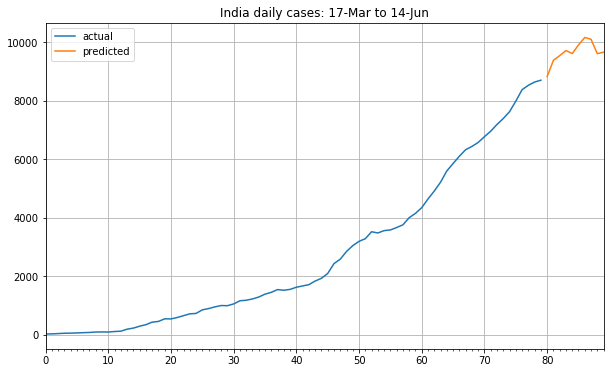
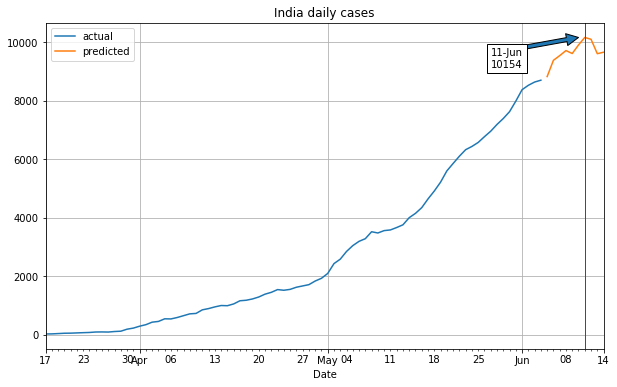
Published article.

diff --git a/docs/_posts/2020-06-04-forecasting-covid19-cases.md b/docs/_posts/2020-06-04-forecasting-covid19-cases.md
@@ -1,0 +1,42 @@
+---
+layout: post
+title: 10 day forecast using Deep Learning
+date:   2020-06-04
+comments: true
+hero: /assets/images/forecasting/hero.jpeg
+excerpt: Most researchers are using a compartmentalised model such as SIR or one of its variants to predict the Covid19 future, because the epidemiologists use them to describe epidemic growth. These work well when there is unhindered growth of the disease and when there is a uniform policy and pattern in the population under study. We felt that it was too much of a simplification to a heterogenous population like India where the policy and implementations are changing across states and with time.
+
+---
+
+| Date | Predicted daily cases | Actual daily cases | Difference |
+|:---:|:---:|:---:|:---:|
+| Jun 5  | 8818  | 9851 | 1033 |
+| Jun 6  | 9373  |  |  |
+| Jun 7  | 9532  |  |  |
+| Jun 8  | 9706  |  |  |
+| Jun 9  | 9605  |  |  |
+| Jun 10 | 9896  |  |  |
+| Jun 11 | 10154 |  |  |
+| Jun 12 | 10091 |  |  |
+| Jun 13 | 9599  |  |  |
+| Jun 14 | 9650  |  |  |
+
+Last updated: 4 Jun
+
+Most researchers are using a compartmentalised model such as [SIR][sir_wiki]{:target="_blank"} or one of its variants to predict the Covid19 future, because the epidemiologists use them to describe epidemic growth. These work well when there is unhindered growth of the disease and when there is a uniform policy and pattern in the population under study. It worked well with small populations in European countries. We felt that it was too much of a simplification to a heterogenous population like India where the policy and implementations are changing across states and with time. Our case was more along the lines of the US where these models have proved to be inadequate. Further the number of people infected in India was too low and data too little to reliably use such models in the early stages when we started this work. Luckily we have deep neural networks which are generalized AI learning algorithms that can learn directly from the data and build a model on its own. We are using this to understand the pattern of confirmed cases across the world.
+
+We built a model using Recurrent Neural Network (RNN) to predict the Covid19 confirmed cases for the next 10 days. RNNs can learn patterns from training data and make predictions accordingly. We trained the RNN on Covid [data][owid]{:target="_blank"} from all other countries of the world and asked it to make predictions for India.
+
+Last updated: 4 Jun
+![Predictions][chart]
+
+
+Rudimentary algorithm fitting was to do a time series prediction using RNN which a few researchers attempted. But that approach was not rich enough as we needed a way to look at more inputs that might matter across multiple populations. We discovered a [paper by NYudistira][yud]{:target="_blank"} and agreed with his overall approach but disagreed on certain assumptions that were made. We made some improvements that are listed in our notebook [here][notebook]{:target="_blank"}.
+
+Training these models is a computationally intensive task and requires GPUs. Our home computers proved insufficient to crunch the numbers and we took the help of Google Colab platform to run our programs. Currently it takes us over 48 hours to train one model and the platform access is unreliable. We're looking for sponsorship in terms of computational resources in order to crunch more numbers and provide better models and keep updating them as the pandemic progresses. If you like our direction and are able to help please do get in touch with us. Else please keep visiting us to see the updated forecast as we try to look at more inputs and outputs and extend the look ahead duration.
+
+[chart]: {{ site.baseurl }}/assets/images/forecasting/chart.png
+[sir_wiki]: https://en.wikipedia.org/wiki/Compartmental_models_in_epidemiology#The_SIR_model
+[yud]: https://arxiv.org/abs/2005.04809
+[notebook]: https://nbviewer.jupyter.org/github/VICS-CORE/stats/blob/master/11_YudistirNet.ipynb
+[owid]: https://github.com/owid/covid-19-data/tree/master/public/data

diff --git a/docs/index.md b/docs/index.md
@@ -14,7 +14,7 @@ list_title: Recent
         <h6>{{ post.date | date: "%b %d, %Y" }}</h6>
     </dt>
     <dd>
-        {{ post.excerpt }}
+        <p>{{ post.excerpt }}</p>
     </dd>
   {% endfor %}
 </dl>
